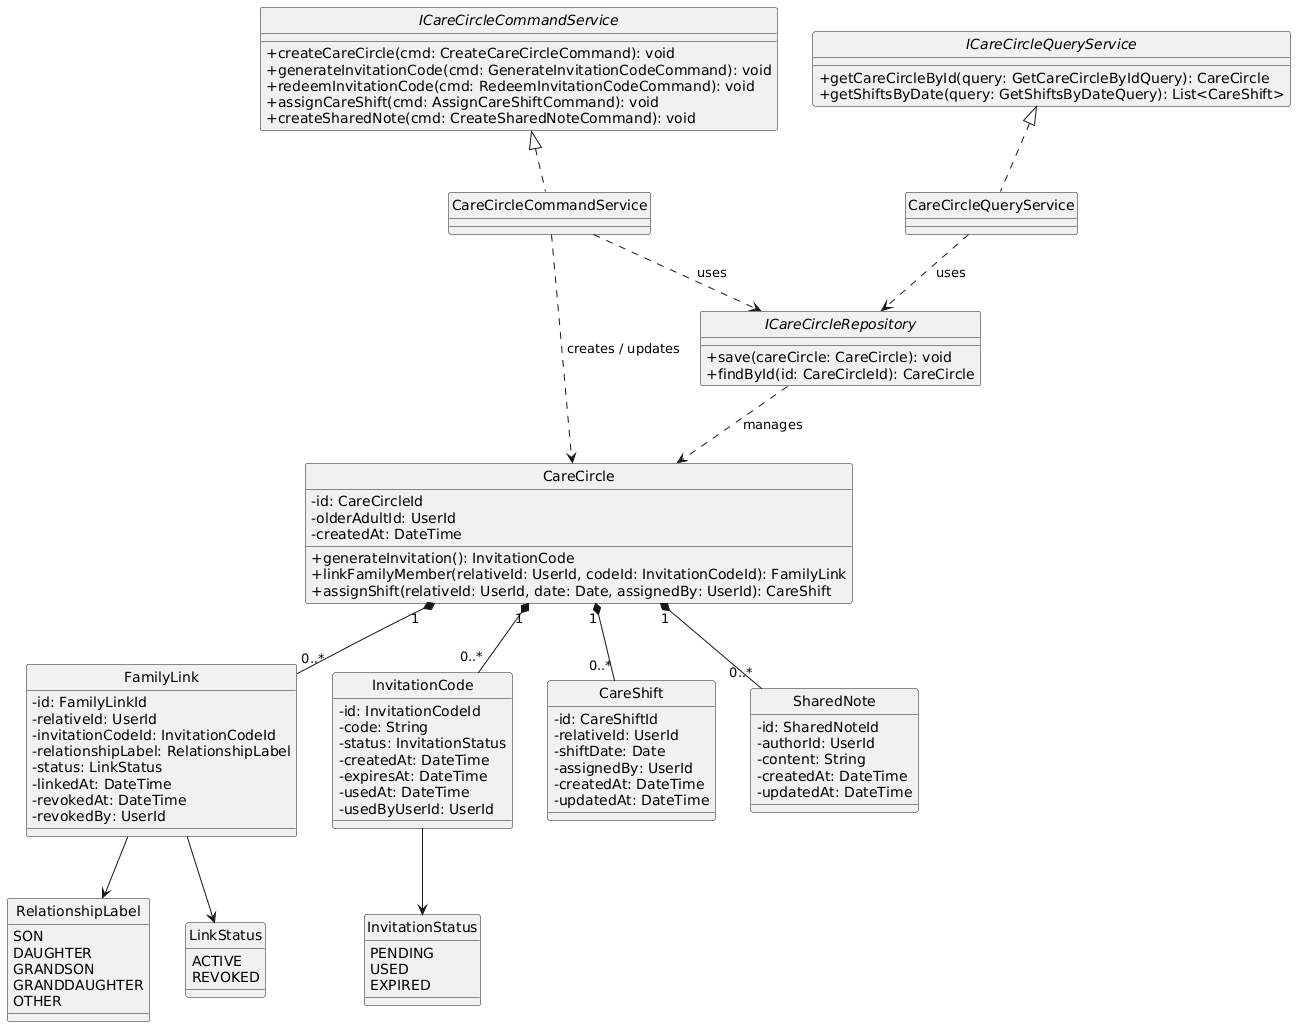
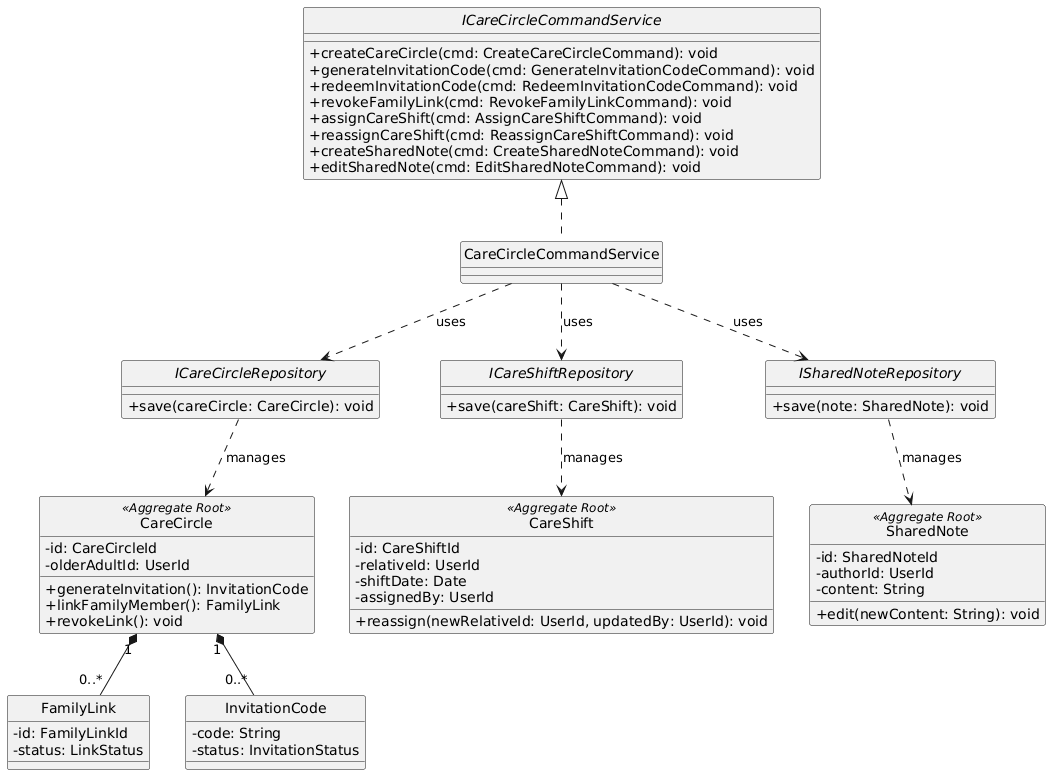
fix(tactical-design): realign Care Circle and Daily Check-in aggregates with EventStorming

diff --git a/README.md b/README.md
@@ -3664,48 +3664,62 @@ Existe una relación de uno a muchos entre `users` y `sessions`: una cuenta pued
 
 #### 2.6.2.1. Domain Layer
 
-En esta capa se definen las reglas de negocio para la formación y gestión de la red de apoyo del adulto mayor, sin conocer detalles de autenticación, persistencia ni interfaces.
+En esta capa se definen las reglas de negocio para la formación y gestión de la red de apoyo del adulto mayor. Conforme al EventStorming, el dominio se divide en tres *Aggregate Roots* independientes para evitar bloqueos transaccionales innecesarios.
 
 **Sub-capa Model - Aggregates y Entities:**
 
 | Tipo | Nombre | Descripción | Responsabilidad Principal | Relación con otros elementos |
 |---|---|---|---|---|
-| Aggregate | CareCircle | Entidad raíz que agrupa a todos los familiares vinculados a un adulto mayor. | Mantener la integridad de la red de cuidado y coordinar la validación de vínculos. | Relacionado con el módulo Identity & Access (referencia al usuario). |
-| Entity | InvitationCode | Código temporal generado para agregar familiares. | Garantizar que un código solo pueda usarse una vez y dentro de su tiempo de vigencia. | Pertenece al aggregate CareCircle. |
-| Entity | FamilyLink | Relación activa entre el adulto mayor y un cuidador. | Validar si un familiar tiene autorización para acceder a los datos del adulto mayor. | Pertenece al aggregate CareCircle. |
-| Entity | CareShift | Asignación de días de responsabilidad por familiar. | Prevenir que dos familiares se asignen el mismo turno de cuidado en el mismo día. | Pertenece al aggregate CareCircle. |
-| Entity | SharedNote | Bitácora colaborativa de contexto familiar. | Almacenar información compartida por los miembros del círculo. | Pertenece al aggregate CareCircle. |
+| Aggregate | CareCircle | Entidad raíz que administra la membresía del círculo de cuidado. | Mantener la integridad de los vínculos familiares y los códigos de invitación. | Relacionado con el módulo Identity & Access. |
+| Entity | InvitationCode | Código temporal generado para agregar familiares. | Garantizar que un código se redima una sola vez o expire. | Pertenece al aggregate CareCircle. |
+| Entity | FamilyLink | Relación activa o revocada entre el adulto mayor y un cuidador. | Representar la autorización de un familiar sobre un adulto mayor. | Pertenece al aggregate CareCircle. |
+| Aggregate | CareShift | Entidad raíz que gestiona los turnos de cuidado diarios. | Garantizar que no haya colisiones de responsabilidad en una misma fecha. | Referencia al CareCircle. |
+| Aggregate | SharedNote | Entidad raíz que gestiona la bitácora colaborativa. | Almacenar y exponer información de contexto compartida por los miembros. | Referencia al CareCircle. |
 
 **Sub-capa Model - Commands:**
 
-| Tipo | Nombre | Descripción | Responsabilidad Principal |
-|---|---|---|---|
-| Command | CreateCareCircleCommand | Comando para inicializar el círculo de cuidado. | Representar la intención de crear un círculo tras el registro de un adulto mayor. |
-| Command | GenerateInvitationCodeCommand | Comando para generar código de invitación. | Representar la intención del adulto mayor de invitar a un familiar. |
-| Command | RedeemInvitationCodeCommand | Comando para canjear un código de invitación. | Representar la intención de un familiar de unirse al círculo usando un código válido. |
-| Command | AssignCareShiftCommand | Comando para asignar un turno de cuidado. | Representar la intención de un familiar de tomar responsabilidad en una fecha específica. |
-| Command | CreateSharedNoteCommand | Comando para crear una nota compartida. | Representar la intención de añadir un apunte a la bitácora colaborativa. |
-
-**Sub-capa Model - Queries:**
-
-| Tipo | Nombre | Descripción | Responsabilidad Principal |
-|---|---|---|---|
-| Query | GetCareCircleByOlderAdultIdQuery | Consulta para obtener el círculo de un adulto mayor. | Representar la intención de cargar la red de apoyo y sus miembros vinculados. |
-| Query | GetCareShiftsByDateQuery | Consulta de turnos de cuidado por fecha. | Representar la intención de saber qué familiar está a cargo hoy. |
-
-**Sub-capa Repositories y Services (Interfaces):**
-
-| Tipo | Nombre | Descripción | Responsabilidad Principal |
-|---|---|---|---|
-| Interface | ICareCircleRepository | Repositorio de CareCircle. | Definir los contratos de persistencia para el agregado y sus entidades internas. |
-| Interface | ICareCircleCommandService | Servicio de comandos. | Estipular las operaciones de escritura (generar código, vincular familiar, asignar turno). |
-| Interface | ICareCircleQueryService | Servicio de consultas. | Estipular las operaciones de lectura (ver miembros, ver turnos). |
+| Tipo | Nombre | Descripción |
+|---|---|---|
+| Command | CreateCareCircleCommand | Intención de inicializar el círculo de cuidado tras el registro. |
+| Command | GenerateInvitationCodeCommand | Intención de crear un código temporal para invitar a un familiar. |
+| Command | RedeemInvitationCodeCommand | Intención de un familiar de unirse al círculo usando un código válido. |
+| Command | RevokeFamilyLinkCommand | Intención de eliminar el acceso de un familiar al círculo. |
+| Command | AssignCareShiftCommand | Intención de asignar un turno de cuidado en una fecha específica. |
+| Command | ReassignCareShiftCommand | Intención de cambiar al responsable de un turno de cuidado existente. |
+| Command | CreateSharedNoteCommand | Intención de añadir un apunte a la bitácora colaborativa. |
+| Command | EditSharedNoteCommand | Intención de modificar el contenido de una nota compartida existente. |
 
 **Sub-capa Model - Events:**
 
-| Tipo | Nombre | Descripción | Responsabilidad Principal |
-|---|---|---|---|
-| Event | FamilyLinkEstablished | Evento de dominio de vinculación. | Informar al resto de contextos que un nuevo familiar tiene autorización para acceder a los datos del adulto mayor. |
+| Tipo | Nombre | Descripción |
+|---|---|---|
+| Event | CareCircleCreated | Se inicializó el círculo de cuidado. |
+| Event | InvitationCodeGenerated | Se generó un nuevo código de invitación temporal. |
+| Event | InvitationCodeRedeemed | Un código fue canjeado con éxito. |
+| Event | FamilyLinkEstablished | Se estableció el vínculo (Consumido por otros contextos para autorizar accesos). |
+| Event | FamilyLinkRevoked | Se eliminó el acceso de un familiar. |
+| Event | CareShiftAssigned | Se registró un nuevo turno de cuidado. |
+| Event | CareShiftReassigned | Se actualizó el responsable de un turno. |
+| Event | SharedNoteCreated | Se añadió una nota al círculo. |
+| Event | SharedNoteEdited | Se modificó una nota existente. |
+
+**Sub-capa Model - Queries:**
+
+| Tipo | Nombre | Descripción |
+|---|---|---|
+| Query | GetCareCircleByIdQuery | Obtener la estructura y miembros de un círculo. |
+| Query | GetCareShiftsByDateQuery | Obtener el calendario de turnos. |
+| Query | GetSharedNotesQuery | Obtener la bitácora de notas compartidas. |
+
+**Sub-capa Repositories y Services (Interfaces):**
+
+| Tipo | Nombre | Descripción |
+|---|---|---|
+| Interface | ICareCircleRepository | Contrato de persistencia para el agregado CareCircle. |
+| Interface | ICareShiftRepository | Contrato de persistencia para el agregado CareShift. |
+| Interface | ISharedNoteRepository | Contrato de persistencia para el agregado SharedNote. |
+| Interface | ICareCircleCommandService | Contrato de operaciones de escritura del dominio. |
+| Interface | ICareCircleQueryService | Contrato de operaciones de lectura del dominio. |
 
 <br>
 
@@ -3805,9 +3819,10 @@ Clases que resuelven el acceso a la base de datos y a los mecanismos técnicos d
 |---|---|---|
 | **DomainEventPublisherAdapter** | Publica los eventos de dominio generados por las operaciones de Care Circle dentro del monolito modular, permitiendo que otros módulos reaccionen a eventos como la creación del Care Circle, establecimiento del vínculo familiar, asignación de turnos o creación de notas compartidas. | Implementa IDomainEventPublisher. |
 <br>
+
 #### 2.6.2.5. Bounded Context Software Architecture Component Level Diagrams
 
-En esta sección se presenta el Component Diagram de C4 Model correspondiente al bounded context Care Circle, elaborado en Structurizr. El diagrama detalla la arquitectura interna estructurada por capas: los *Controllers* como puntos de entrada REST (`CareCirclesController`, `FamilyLinksController`, `CareShiftsController`, `SharedNotesController`); los *Resources* y *Assemblers* encargados de la transformación de datos para la API; los servicios de aplicación (`CareCircleCommandService`, `CareCircleQueryService`) que implementan las interfaces del dominio; y el acceso a datos mediante `CareCircleRepository`. Se incluye también el `RegisteredIdentityConsumer`, que reacciona a los eventos publicados por el módulo externo Identity & Access para inicializar el círculo de cuidado.
+En esta sección se presenta el Component Diagram de C4 Model correspondiente al bounded context Care Circle, elaborado en Structurizr. El diagrama detalla la arquitectura interna: los *Controllers* como puntos de entrada REST; los *Resources* y *Assemblers* para transformación de datos; los servicios de aplicación (`CareCircleCommandService`, `CareCircleQueryService`); y el acceso a datos mediante los 3 repositorios definidos en el dominio (`CareCircleRepository`, `CareShiftRepository`, `SharedNoteRepository`).
 
 <div align="center">
 
@@ -3822,7 +3837,7 @@ En esta sección se presenta el Component Diagram de C4 Model correspondiente al
 
 ##### 2.6.2.6.1. Bounded Context Domain Layer Class Diagrams
 
-El siguiente diagrama de clases UML representa la capa de dominio del contexto Care Circle. Se ilustra la relación de composición entre el aggregate root `CareCircle` y sus entidades internas (`FamilyLink`, `InvitationCode`, `CareShift`, `SharedNote`). Se han incorporado las reglas de trazabilidad exigidas por el dominio, como el registro de quién asigna un turno (`assignedBy`), qué código generó un vínculo (`invitationCodeId`) y quién lo revocó (`revokedBy`). Asimismo, se detallan las interfaces de los servicios de aplicación (`ICareCircleCommandService`, `ICareCircleQueryService`) y sus implementaciones, las cuales orquestan la lógica interactuando con la interfaz del repositorio (`ICareCircleRepository`).
+El siguiente diagrama de clases UML representa la capa de dominio. Acatando el EventStorming, se visualizan los tres Aggregate Roots principales: `CareCircle`, `CareShift` y `SharedNote`. Se detallan las interfaces de los servicios de aplicación y repositorios que orquestan la lógica.
 
 <div align="center">
 
@@ -3920,97 +3935,81 @@ Incluye índices sobre `care_circle_id` y `author_id` que optimizan la consulta 
 
 ### 2.6.3. Bounded Context: Daily Check-in
 
-El bounded context **Daily Check-in** es el mecanismo principal de recolección de datos de Serenia. Su responsabilidad es interactuar con el adulto mayor diariamente para capturar su estado de bienestar mediante preguntas rotativas y ligeras. Asimismo, gestiona los horarios preferidos de notificación, los tiempos límite de respuesta y las pausas voluntarias del usuario. Este contexto actúa exclusivamente como un recolector (Execution Context); no interpreta tendencias ni genera alertas, sino que publica eventos de dominio para que los contextos de *Wellbeing Monitoring* y *Alerts & Safety* reaccionen según corresponda.
+El bounded context **Daily Check-in** es el mecanismo principal de recolección de datos. Su responsabilidad es capturar el estado diario del adulto mayor mediante preguntas ligeras, así como administrar las preferencias del usuario (horarios, pausas y modos de interfaz). Conforme al EventStorming, este contexto divide su dominio en dos agregados principales: `CheckIn` y `CheckInPreferences`.
 
 <br>
 
 #### 2.6.3.1. Domain Layer
 
-En la capa de dominio se encapsula toda la lógica de negocio y las invariantes relacionadas con la captura del estado diario del adulto mayor.
-
 **Sub-capa Model - Aggregates y Entities:**
 
 | Tipo | Nombre | Descripción | Responsabilidad Principal | Relación con otros elementos |
 |---|---|---|---|---|
-| Aggregate | CheckIn | Registro histórico de interacción diaria. | Almacenar el nivel de ánimo reportado, la nota opcional y controlar el ciclo de vida del check-in (PENDING, ANSWERED o MISSED). | Publica eventos para Wellbeing y Alerts. Relacionado con CheckInQuestion. |
-| Aggregate | CheckInSchedule | Horarios y configuración por usuario. | Determinar la hora exacta de la notificación diaria, zona horaria y el límite de espera (time limit). | Referencia al usuario (OlderAdultId). |
-| Entity | CheckInQuestion | Catálogo de preguntas rotativas. | Proveer el texto y el tono conversacional para que el check-in no sea monótono. | Asociado al CheckIn generado. |
-| Entity | QuestionPause | Historial de días pausados voluntariamente. | Evitar la generación de preguntas y alertas de inactividad durante la fecha elegida por el adulto mayor. | Referencia al usuario. |
+| Aggregate | CheckIn | Registro histórico de la interacción diaria. | Controlar el ciclo de vida del check-in (PENDING, ANSWERED o MISSED) y capturar el nivel de ánimo. | Publica eventos para Wellbeing Monitoring y Alerts & Safety. |
+| Aggregate | CheckInPreferences | Preferencias y configuración de la experiencia por usuario. | Administrar horarios, activación de pausas diarias y el modo de interfaz simplificado. | Referencia a la cuenta del usuario. |
+| Entity | QuestionPause | Historial de días pausados voluntariamente. | Evitar alertas de inactividad durante la fecha pausada. | Pertenece al agregado CheckInPreferences. |
 
 **Sub-capa Model - Commands:**
 
 | Tipo | Nombre | Descripción | Responsabilidad Principal |
 |---|---|---|---|
-| Command | AnswerCheckInCommand | Comando para registrar una respuesta. | Representar la intención del adulto mayor de reportar su nivel de ánimo (`MoodLevel`). |
-| Command | ConfigureScheduleCommand | Comando para configurar el horario. | Establecer o actualizar la hora preferida del recordatorio diario y la zona horaria. |
-| Command | PauseQuestionsCommand | Comando para pausar el check-in. | Representar la intención de no recibir interacciones durante el día actual. |
-| Command | MarkCheckInMissedCommand | Comando interno de expiración. | Cambiar el estado a MISSED cuando vence el tiempo límite sin respuesta. |
+| Command | PromptCheckInCommand | Comando interno del sistema. | Generar y enviar la pregunta del día al usuario. |
+| Command | AnswerCheckInCommand | Comando del adulto mayor. | Registrar la respuesta con el estado de ánimo (`MoodLevel`). |
+| Command | ExpireCheckInCommand | Comando interno de tiempo. | Cambiar el estado a MISSED al vencer el tiempo límite. |
+| Command | ScheduleCheckInCommand | Comando de configuración. | Establecer la hora preferida del recordatorio. |
+| Command | ActivateDailyPauseCommand | Comando de configuración. | Pausar las interacciones para el día actual. |
+| Command | EnableSimplifiedModeCommand | Comando de accesibilidad. | Activar o desactivar el modo simplificado de UI. |
 
-**Sub-capa Model - Queries:**
+**Sub-capa Model - Events y Queries:**
 
-| Tipo | Nombre | Descripción | Responsabilidad Principal |
-|---|---|---|---|
-| Query | GetTodayCheckInQuery | Consulta de estado del día. | Recuperar el check-in pendiente o completado de la fecha actual para la interfaz. |
-| Query | GetCheckInScheduleQuery | Consulta de configuración. | Obtener las preferencias de horario del usuario. |
+| Tipo | Nombre | Descripción |
+|---|---|---|
+| Event | CheckInAnswered | Informa a *Wellbeing Monitoring* para evaluación de patrones. |
+| Event | CheckInMissed | Informa a *Alerts & Safety* para abrir ventana de inactividad. |
+| Query | GetTodayCheckInQuery | Recuperar el check-in activo del día para la interfaz. |
 
 **Sub-capa Repositories y Services (Interfaces):**
 
-| Tipo | Nombre | Descripción | Responsabilidad Principal |
-|---|---|---|---|
-| Interface | ICheckInRepository | Repositorio de CheckIn. | Definir operaciones CRUD para el registro diario. |
-| Interface | ICheckInScheduleRepository | Repositorio de Schedule. | Definir operaciones CRUD para la configuración de horarios y pausas. |
-| Interface | IDailyCheckInCommandService | Servicio de aplicación de comandos. | Contrato para procesar respuestas, configurar horarios y pausas. |
-| Interface | IDailyCheckInQueryService | Servicio de aplicación de consultas. | Contrato para lectura de pendientes y configuraciones. |
-
-**Sub-capa Model - Events:**
-
-| Tipo | Nombre | Descripción | Responsabilidad Principal |
-|---|---|---|---|
-| Event | CheckInAnswered | Evento de respuesta registrada. | Informar a *Wellbeing Monitoring* para que evalúe y acumule el dato en el historial. |
-| Event | UnansweredCheckIn | Evento de tiempo expirado. | Informar a *Alerts & Safety* para que inicie la ventana de inactividad (temporizador de alerta). |
+| Tipo | Nombre | Descripción |
+|---|---|---|
+| Interface | ICheckInRepository | Contrato CRUD para el registro diario de interacciones. |
+| Interface | ICheckInPreferencesRepository | Contrato CRUD para horarios, pausas y modos visuales. |
+| Interface | IDailyCheckInCommandService | Contrato para orquestar los comandos de respuesta y preferencias. |
+| Interface | IDailyCheckInQueryService | Contrato para la lectura de estado y configuración. |
 
 <br>
 
 #### 2.6.3.2. Interface Layer
 
-**Sub-capa REST - Controllers & Resources:**
-
 | Tipo | Nombre | Descripción | Responsabilidad Principal |
 |---|---|---|---|
-| Controller | CheckInsController | Punto de entrada REST para el check-in. | Exponer el endpoint GET para ver la pregunta de hoy y POST para enviar la respuesta. |
-| Controller | SchedulesController | Punto de entrada REST para configuración. | Exponer endpoints PUT para actualizar el horario y crear pausas de preguntas. |
-| Resource | AnswerCheckInResource | Estructura de datos de entrada (DTO). | Transportar el nivel de ánimo (`MoodLevel`) desde la aplicación móvil. |
-| Assembler | DailyCheckInAssembler | Transformador de datos. | Convertir los Resources JSON en Commands del dominio y viceversa. |
-| Consumer | FamilyLinkEstablishedConsumer | Consumidor asíncrono (ACL). | Escuchar cuando *Care Circle* establece un vínculo para activar el cronograma del adulto mayor. |
+| Controller | CheckInsController | REST API para interacciones. | Endpoints GET/POST para responder el check-in diario. |
+| Controller | PreferencesController | REST API para configuración. | Endpoints PUT/POST para horarios, pausas y modo simplificado. |
+| Assembler | Assemblers | Transformadores de datos. | Mapear los JSON a Commands/Queries del dominio. |
 
 <br>
 
 #### 2.6.3.3. Application Layer
 
-**Sub-capa Internal - Services:**
-
 | Tipo | Nombre | Descripción | Responsabilidad Principal |
 |---|---|---|---|
-| Service | DailyCheckInCommandService | Implementación de comandos. | Valida reglas de negocio (ej. que no se responda un check-in vencido), actualiza el Aggregate y publica eventos de dominio. |
-| Service | DailyCheckInQueryService | Implementación de consultas. | Recupera datos para la vista sin modificar estado. |
+| Service | DailyCheckInCommandService | Ejecutor de casos de uso de escritura. | Valida invariantes, modifica los agregados `CheckIn` o `CheckInPreferences` y publica los eventos de dominio. |
+| Service | DailyCheckInQueryService | Ejecutor de casos de uso de lectura. | Devuelve los recursos de lectura sin alterar estado. |
 
 <br>
 
 #### 2.6.3.4 Infrastructure Layer
 
-**Sub-capa Persistence & Messaging:**
-
 | Tipo | Nombre | Descripción | Responsabilidad Principal |
 |---|---|---|---|
-| Repository | CheckInRepository | Repositorio concreto de persistencia. | Operar sobre las tablas de MySQL mediante ORM o sentencias preparadas. |
-| Repository | CheckInScheduleRepository | Repositorio concreto de configuración. | Acceder a las tablas de horarios y pausas. |
-| Publisher | DomainEventPublisherAdapter | Adaptador de mensajería interna. | Propagar los eventos del dominio al bus interno (Event Bus) para los demás módulos. |
+| Repository | CheckInRepository | Implementación persistencia. | Persistir las interacciones diarias en la BD. |
+| Repository | CheckInPreferencesRepository | Implementación persistencia. | Persistir horarios, pausas y flags de UI en la BD. |
 
 <br>
 
 #### 2.6.3.5. Bounded Context Software Architecture Component Level Diagrams
 
-En el siguiente Component Diagram C4 se ilustra la arquitectura de Daily Check-in. El adulto mayor interactúa a través de los *Controllers* (`CheckInsController`, `SchedulesController`), los cuales utilizan *Assemblers* para transformar los datos y delegar el flujo a los *Application Services* (`DailyCheckInCommandService`, `DailyCheckInQueryService`). Estos servicios orquestan los agregados y persisten el estado a través de los *Repositories*. Finalmente, las acciones clave publican eventos hacia el sistema mediante el *DomainEventPublisher*.
+Este diagrama C4 muestra al Adulto Mayor interactuando con los *Controllers* (`CheckInsController`, `PreferencesController`), quienes delegan en los *Services* y *Repositories* definidos por la arquitectura limpia. Se destacan las conexiones con la Base de Datos.
 
 <div align="center">
 
@@ -4025,7 +4024,7 @@ En el siguiente Component Diagram C4 se ilustra la arquitectura de Daily Check-i
 
 ##### 2.6.3.6.1. Bounded Context Domain Layer Class Diagrams
 
-El diagrama de clases UML expone el modelo estricto de la capa de dominio. Muestra al agregado principal `CheckIn` y su relación con `CheckInQuestion` y las enumeraciones `CheckInStatus` y `MoodLevel`. Se destacan explícitamente las interfaces de los servicios (`IDailyCheckInCommandService`, `IDailyCheckInQueryService`) y repositorios (`ICheckInRepository`, `ICheckInScheduleRepository`), cumpliendo el principio de inversión de dependencias.
+El diagrama UML consolida los requerimientos tácticos obtenidos del EventStorming. Presenta a `CheckIn` y `CheckInPreferences` como los dos Aggregate Roots, acompañados de sus respectivas interfaces de persistencia y comandos de usuario/sistema.
 
 <div align="center">
 
@@ -4038,10 +4037,10 @@ El diagrama de clases UML expone el modelo estricto de la capa de dominio. Muest
 
 ##### 2.6.3.6.2. Bounded Context Database Design Diagram
 
-Conforme al diseño relacional DBML, el contexto persiste su información en cuatro tablas:
+El diseño de base de datos transaccional para Daily Check-in incluye las siguientes tablas referenciando al contexto de Identidad:
 - **check_in_questions:** Catálogo base de preguntas rotativas.
-- **check_in_schedules:** Reglas de horario, zonas y tiempos límite de respuesta personalizados.
-- **check_ins:** Registro histórico de cada interacción diaria, con fechas de programación y respuesta, y el ánimo capturado.
+- **check_in_schedules:** Horario de recordatorio y flag de modo simplificado por usuario.
+- **check_ins:** Tabla que materializa el agregado `CheckIn`, registrando la pregunta, el estado (`PENDING`, `ANSWERED`, `MISSED`) y el nivel de ánimo.
 - **question_pauses:** Historial de días en los que el usuario eligió voluntariamente no interactuar.
 
 <div align="center">
